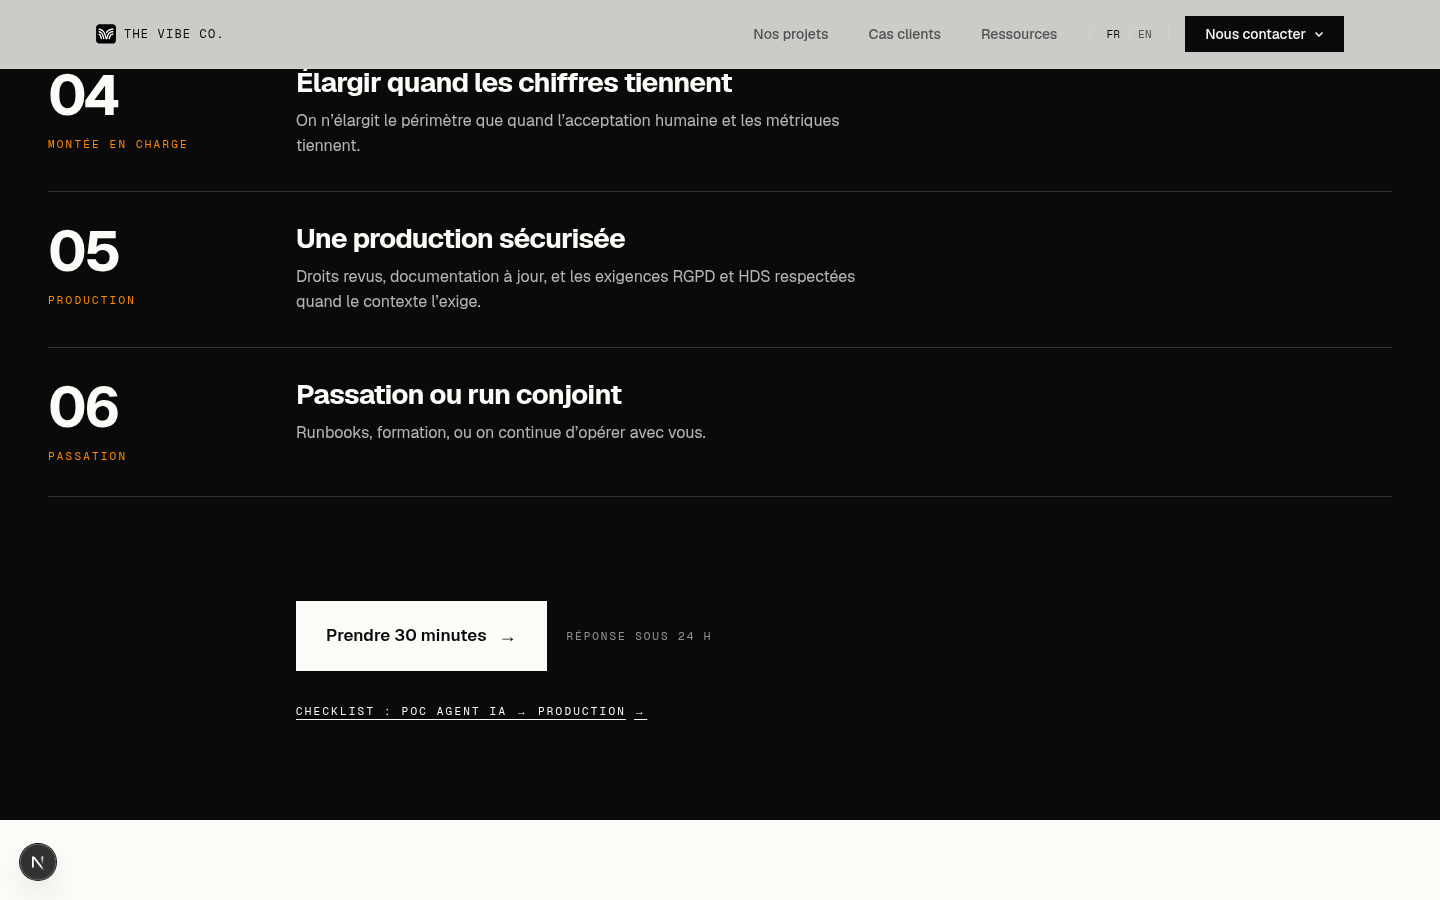
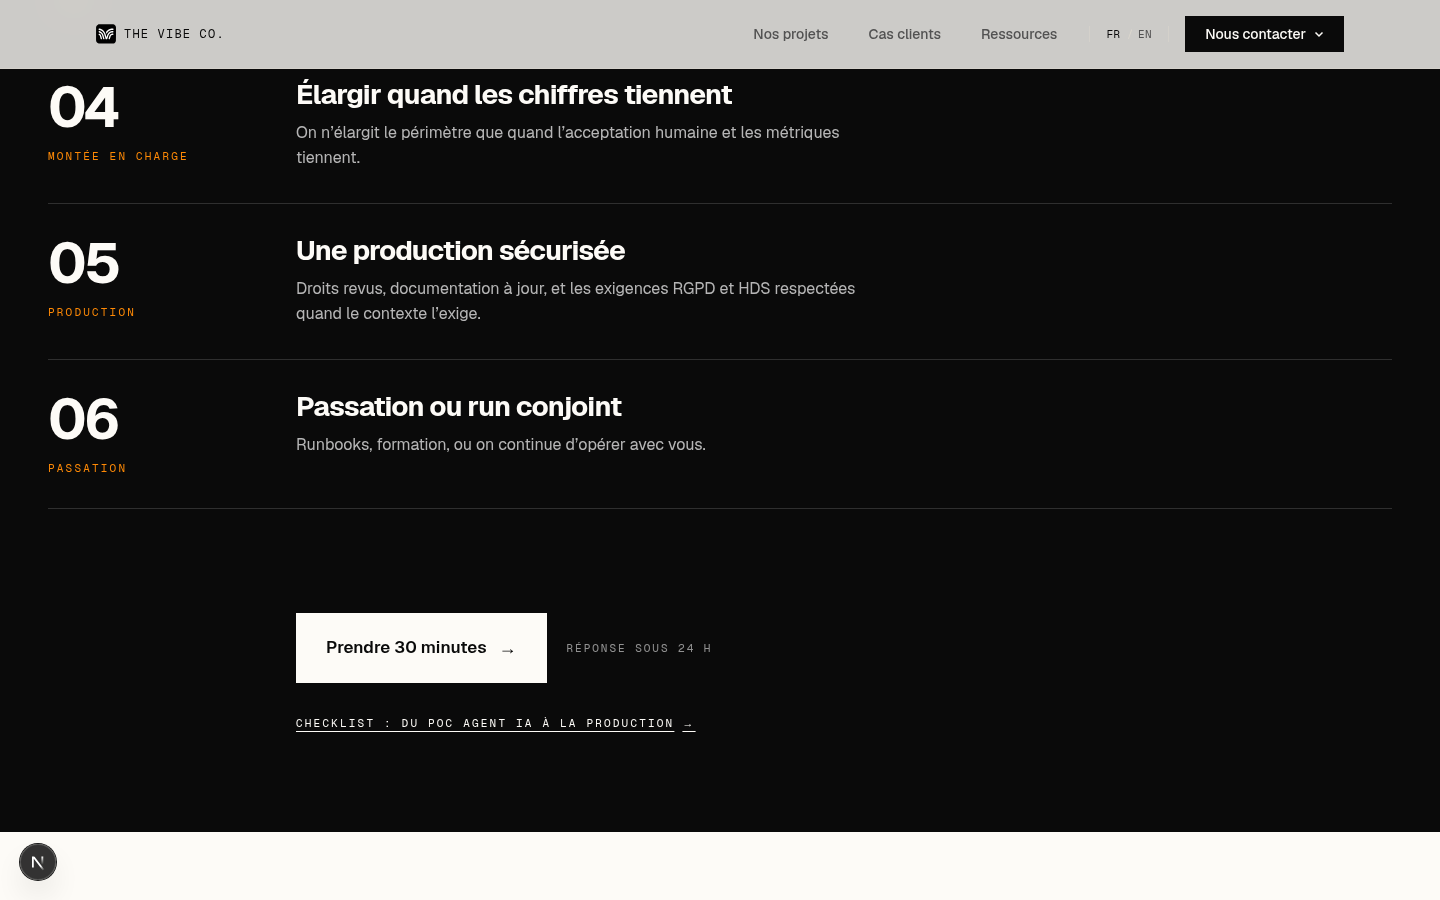
fix(seo): French typography on the agents in production closing question
- Non-breaking space before "?" so the outlined question mark never wraps
  alone on tablets.
- Checklist link label without its own arrow (the link already draws one).
- Comments now say the FAQPage restates the FAQ as plain text.

diff --git a/src/lib/agents-production.ts b/src/lib/agents-production.ts
@@ -46,7 +46,7 @@ export const AGENTS_PRODUCTION_CASE_SLUGS = ["locservice", "coup-de-pates", "the
 /** What the offer is not, to set expectations. */
 export const AGENTS_PRODUCTION_NOT_KEYS = ["chatbot", "replace", "hardening", "promise"] as const;
 
-/** Order of the FAQ entries, mirrored word for word in the FAQPage JSON-LD. */
+/** Order of the FAQ entries, restated as plain text in the FAQPage JSON-LD. */
 export const AGENTS_PRODUCTION_FAQ_KEYS = [
   "start",
   "timeline",

diff --git a/src/components/agents-production/AgentsProductionPage.tsx b/src/components/agents-production/AgentsProductionPage.tsx
@@ -493,7 +493,7 @@ export async function AgentsProductionPage({ locale }: { locale: string }) {
           </div>
         </section>
 
-        {/* 7 — FAQ, mirrored word for word in the FAQPage JSON-LD above. */}
+        {/* 7 — FAQ, restated as plain text in the FAQPage JSON-LD above. */}
         <section className={`${SECTION} border-t border-border py-14 md:py-20`}>
           <h2 className={H2}>{t("faq.title")}</h2>
 
